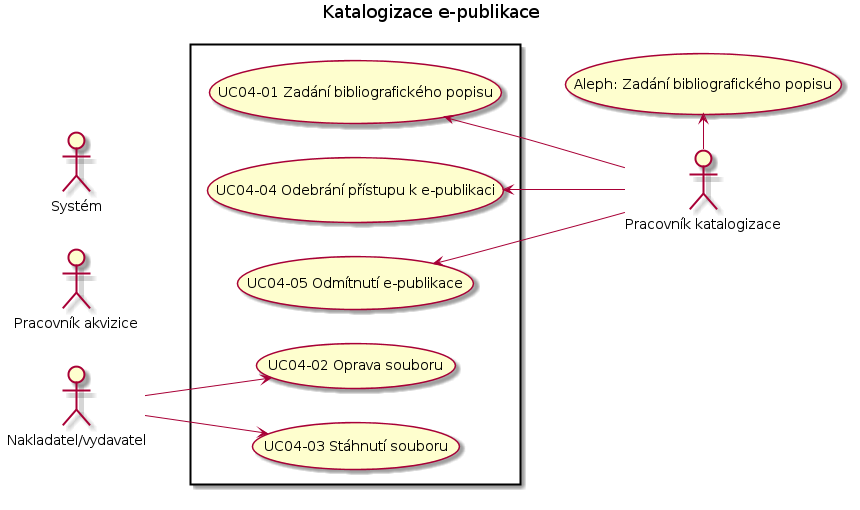
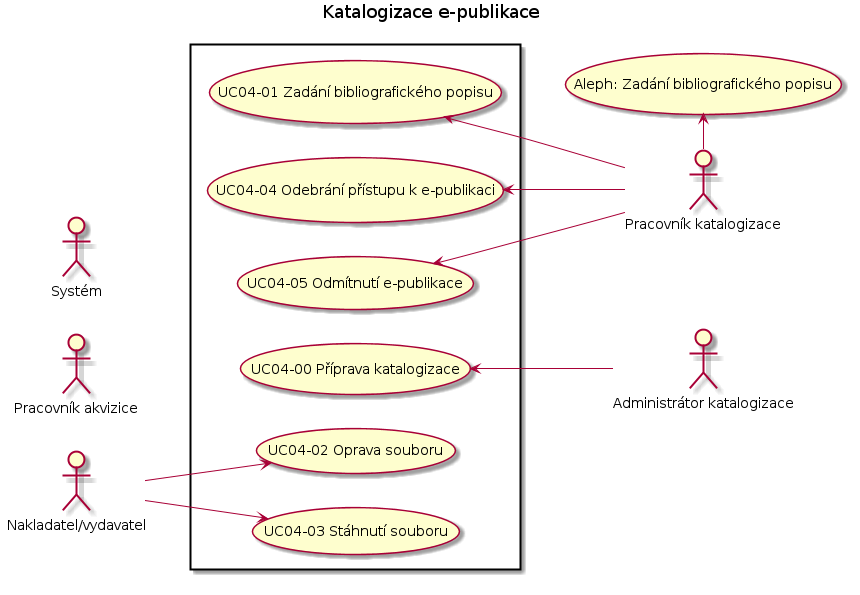
added new states for preparing acquisition and catalogization.

diff --git a/docs/uc04-00.rst b/docs/uc04-00.rst
@@ -1,37 +1,36 @@
-.. _uc03-01:
+.. _uc04-00:
 
-UC03-01 Předání metadat k importu do Aleph
-~~~~~~~~~~~~~~~~~~~~~~~~~~~~~~~~~~~~~~~~~~~~~~~~
+UC04-00 Příprava katalogizace
+~~~~~~~~~~~~~~~~~~~~~~~~~~~~~~~~~~~~~~~~~~~~~~~~~~~~~~~~~~~~~~~~~~~~~~~~~~
 
 .. admonition:: účastníci
 
-   - Systém
-   - systém Aleph
-   - administrátor systému Aleph
+   - Administrátor katalogizace
 
 .. admonition:: vstupní podmínky
+		
+   E-publikace prošla schválením ISBN a akvizicí :ref:`uc03-04`
 
-   - Producent ohlásil publikaci
-     :ref:`uc02-01`, nebo
-     :ref:`uc02-02`, nebo
-     :ref:`uc02-03`
-  
-     a potvrdil ohlášku  :ref:`uc02-04`
+   Administrátor katalogizace se přihlásil do systému
 
 .. admonition:: tok událostí
 
-   1. Systém vytvoří exportní data ve formátu MARC21XML
-   2. Systém je uloží do exportního adresáře
-   3. Systém Aleph exportní data načte
-   4. administrátor systému Aleph údaje zkontroluje
-   5. POKUD jsou údaje v pořádku
+   1. Systém zobrazí úvodní stránku jako v :ref:`uc03-03-00`
+   2. Administrátor katalogizace klikne na ePublikaci
+   3. Systém zobrazí informace o ePublikaci
+      - také zobrazí políčko "Přiřazená osoba katalogizace"
 
-      5.1. administrátor systému Aleph údaje vloží do systému Aleph
+   3. Administrátor katalogizace klikne na políčko "Přiřazená osoba katalogizace"
+   4. Systém nabídne pracovníky katalogizace
+   5. Administrátor katalogizace vybere osobu
+   6. Administrátor katalogizace klikne na linku "Příprava katalogizace: Poslat ke katalogizaci"
+   7. Systém odešle ePublikaci ke katalogizaci
 
 .. admonition:: následné podmínky
 
-   V systému Aleph jsou data o nové ohlášce publikace.
+   ePublikace se zobrazí ve frontě přiřazeného pracovníka katalogizace.
 
+   ePublikace zmizí z fronty administrátora katalogizace.
 
 .. raw:: html
 

diff --git a/docs/uc03-03-00.rst b/docs/uc03-03-00.rst
@@ -1,37 +1,37 @@
-.. _uc03-01:
+.. _uc03-03-00:
 
-UC03-01 Předání metadat k importu do Aleph
-~~~~~~~~~~~~~~~~~~~~~~~~~~~~~~~~~~~~~~~~~~~~~~~~
+UC03-03-00 Příprava akvizice
+~~~~~~~~~~~~~~~~~~~~~~~~~~~~~~~~~~~~~~~~~~~~~~~~~~~~~~~~~~~~~~~~~~~~~~~~~~~~~
 
 .. admonition:: účastníci
 
-   - Systém
-   - systém Aleph
-   - administrátor systému Aleph
+   - Administrátor akvizice
 
 .. admonition:: vstupní podmínky
 
-   - Producent ohlásil publikaci
-     :ref:`uc02-01`, nebo
-     :ref:`uc02-02`, nebo
-     :ref:`uc02-03`
-  
-     a potvrdil ohlášku  :ref:`uc02-04`
+   - Administrátor akvizice se příhlásil do systému
 
 .. admonition:: tok událostí
 
-   1. Systém vytvoří exportní data ve formátu MARC21XML
-   2. Systém je uloží do exportního adresáře
-   3. Systém Aleph exportní data načte
-   4. administrátor systému Aleph údaje zkontroluje
-   5. POKUD jsou údaje v pořádku
+   1. Systém zobrazí přehled ePublikací, které čekají na práci přihlášeného uživatele
 
-      5.1. administrátor systému Aleph údaje vloží do systému Aleph
+      - u každé linky je proklik ke spuštění Alephu s dotyčnou ePublikací
+
+   2. Administrátor akvizice klikne na ePublikaci
+   3. Systém zobrazí informace o ePublikaci
+      - také zobrazí políčko "Přiřazená osoba akvizice"
+
+   3. Administrátor akvizice klikne na políčko "Přiřazená osoba akvizice"
+   4. Systém nabídne pracovníky akvizice
+   5. Administrátor akvizice vybere osobu
+   6. Administrátor akvizice klikne na linku "Příprava akvizice: Poslat k akvizici"
+   7. Systém odešle ePublikaci k akvizici
 
 .. admonition:: následné podmínky
 
-   V systému Aleph jsou data o nové ohlášce publikace.
+   ePublikace se zobrazí ve frontě přiřazeného pracovníka akvizice.
 
+   ePublikace zmizí z fronty administrátora akvizice.
 
 .. raw:: html
 

diff --git a/docs/requirements.rst b/docs/requirements.rst
@@ -56,6 +56,7 @@ Požadavky které jsou kladeny na funkci systému.
 #. systém umožňuje pdf náhled na soubory aniž by kopie opustila systém
 #. systém umožňuje označit e-publikaci jako zakázanou (např. při zjištění, že byla autorem okopírována)
 #. systém odesílá do Alephu i jednoznačnou linku na náhled e-publikace
+#. systém nabízí u každé ePublikace proklik do Alephu pro jednoduché spuštění Alephu s dotyčnou ePublikací
 #. v systému Aleph vzniká proklik na náhled e-publikace v e-deposit :ref:`uc03-03`
 #. systém nabízí základní informační servis (počty přírůstků, zpřístupnění, ...) podle původců a typů dokumentů, ... :ref:`uc12`
 #. systém provádí průběžnou zálohu vstupujících dokumentů

diff --git a/docs/seq01.rst b/docs/seq01.rst
@@ -1,7 +1,7 @@
 SEQ01 - Komunikace při akvizici
 ..........................................................................................
 
-.. image:: seq01.png
+.. .. image:: seq01.png
 
 .. toctree::
 

diff --git a/docs/pm03.rst b/docs/pm03.rst
@@ -8,6 +8,7 @@ PM03 - Akvizice e-publikace
 
 -   :ref:`uc03-01`
 -   :ref:`uc03-02`
+-   :ref:`uc03-03-00`
 -   :ref:`uc03-03`
 -   :ref:`uc03-04`
 -   :ref:`uc03-05`

diff --git a/docs/pm04.rst b/docs/pm04.rst
@@ -3,6 +3,7 @@ PM04 - Katalogizace e-publikace
 
 .. image:: pm04.png
 
+-   :ref:`uc04-00`
 -   :ref:`uc04-01`
 -   :ref:`uc04-02`
 -   :ref:`uc04-03`

diff --git a/docs/uc03.rst b/docs/uc03.rst
@@ -9,6 +9,7 @@ UC03 - Akvizice publikace
 
    uc03-01
    uc03-02
+   uc03-03-00
    uc03-03
    uc03-04
    uc03-05

diff --git a/docs/uc04.rst b/docs/uc04.rst
@@ -7,6 +7,7 @@ UC04 - Katalogizace e-publikace
 
 .. toctree::
 
+   uc04-00
    uc04-01
    uc04-02
    uc04-03
